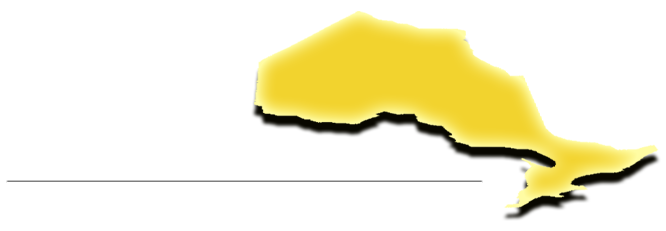
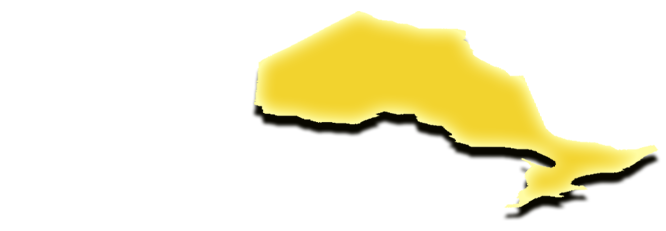
Map Mods Find Events

Changed region(s): [[0.0, 0.7576, 0.7207, 0.7879]]

diff --git a/app/assets/stylesheets/home.css.scss b/app/assets/stylesheets/home.css.scss
@@ -467,6 +467,15 @@ p {
     letter-spacing:-1px;
 }
 
+.mapLine {
+    float: right;
+    margin-top: 120px;
+    margin-right: 470px;
+    width: 425px;
+    height: 3px;
+    background:transparent url(/assets/mapLine.png)
+}
+
 .mapOntario {
     width: 430px;
     position: absolute;
